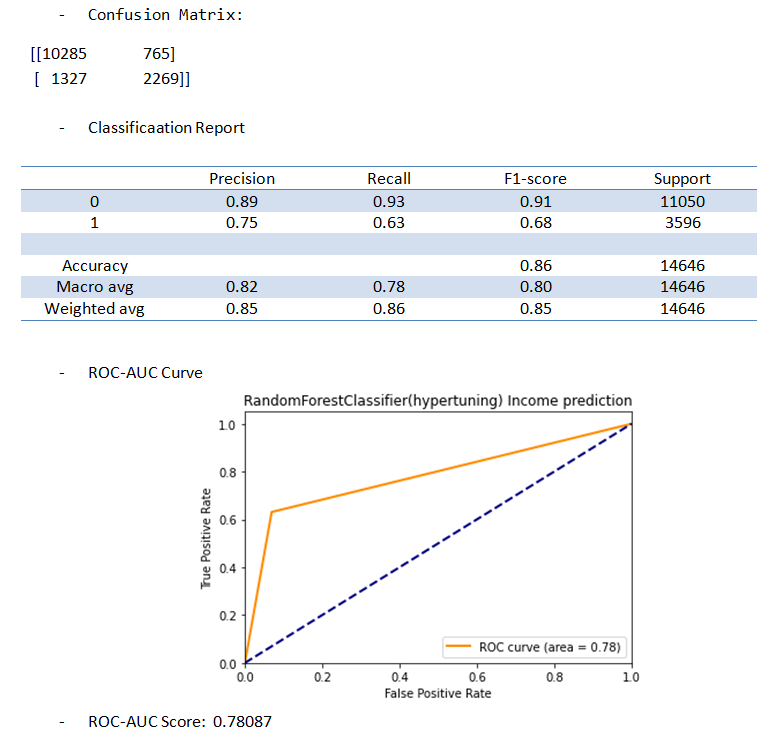
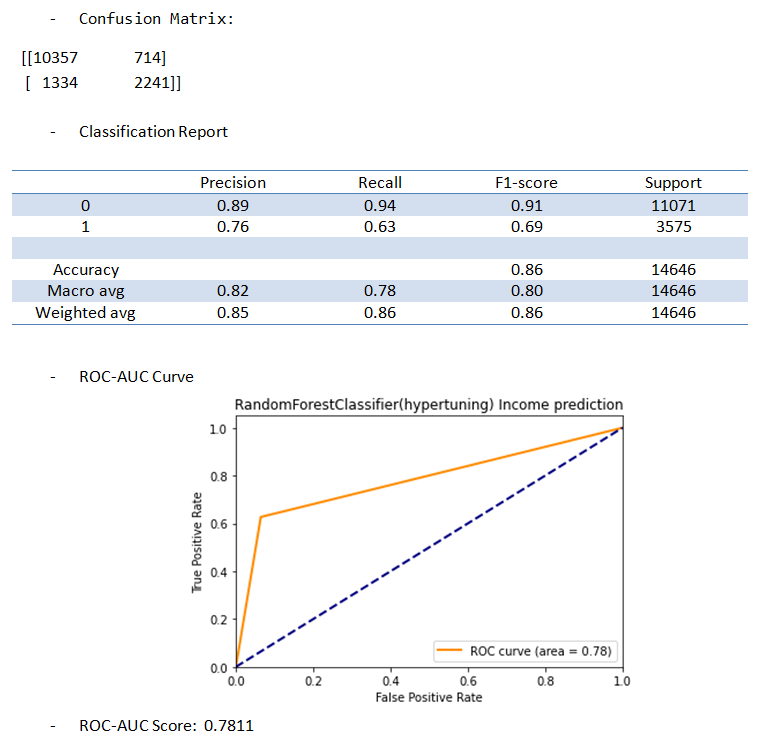
files uploaded

diff --git a/README.md b/README.md
@@ -64,7 +64,7 @@ Evaluating the model on the testing set yields an accuracy of 85.30%
  * ROC-AUC Curve<br/>
  ![roc curve(Image)](assets/default_roc.png)
  
- * ROC-AUC Score: 0.7674289456499851
+ * ROC-AUC Score: 0.7674
  
 #### Step 2. Model Tuning
 
@@ -101,9 +101,9 @@ Evaluating the model on the testing set yields an accuracy of 85.73% with random
 
 ### Step 3: Results
 Evaluating the model on the training set yields an accuracy of 99.99%<br/>
-Evaluating the model on the testing set yields an accuracy of 85.99%<br/>
+Evaluating the model on the testing set yields an accuracy of **86.09%**<br/>
 
- ![results(Image)](assets/results_03.PNG)
+ ![results(Image)](assets/eval_results.PNG)
  
 
 
